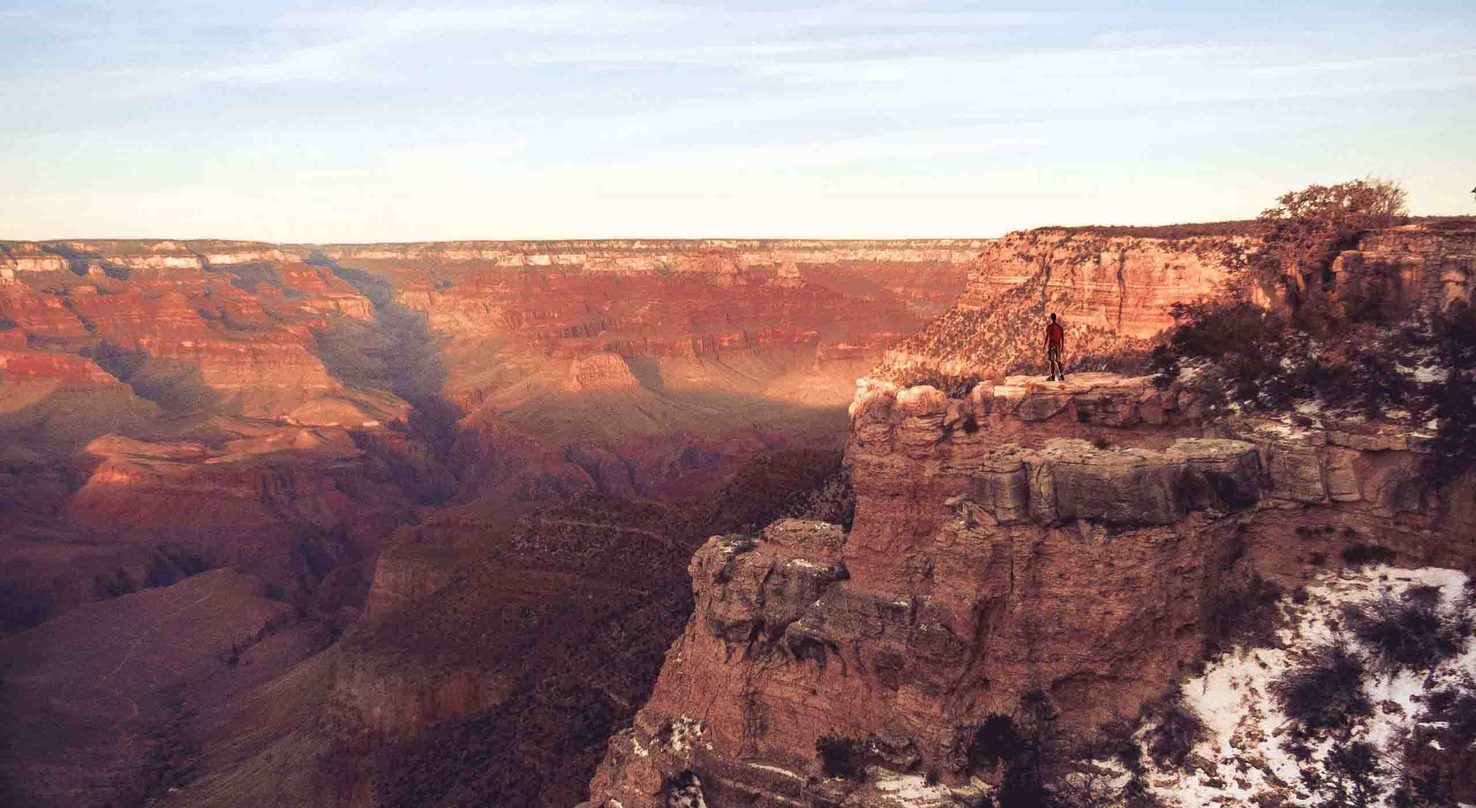
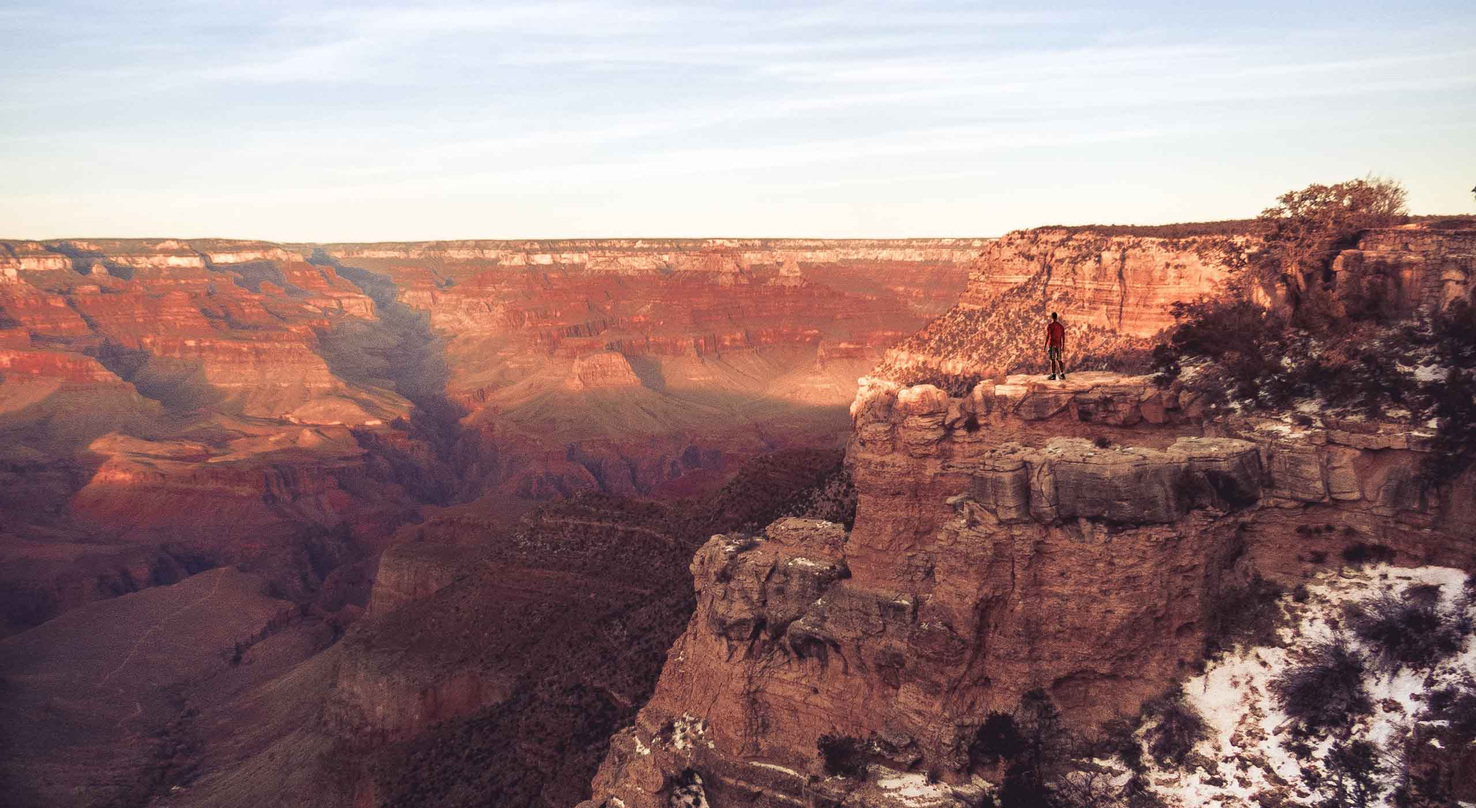
v1.1 update and work background changes

diff --git a/work/work.html b/work/work.html
@@ -300,6 +300,13 @@
 					Version 1 of the website completed! Content for 'about', 'my work' with some basic JavaScript
 					for automatic carousel, modals and navigation bar for mobile.
 				</p>
+				<p class="para">
+					20/1/2021: v1.1
+					<br>
+					<br>
+					Minor edits to the website to make it run smoother and load quicker, through compressing and properly sizing images,
+					 and eliminating render-blocking resources. Hopefully the website loads a tad bit faster now!
+				</p>
 			</div>
 			<div class= 'content' id='street-content'>
 				<h3 class='modaltitle'>STREET</h3>
